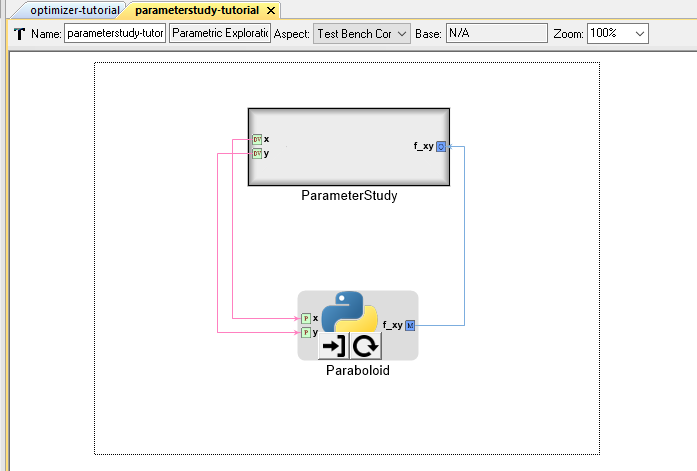
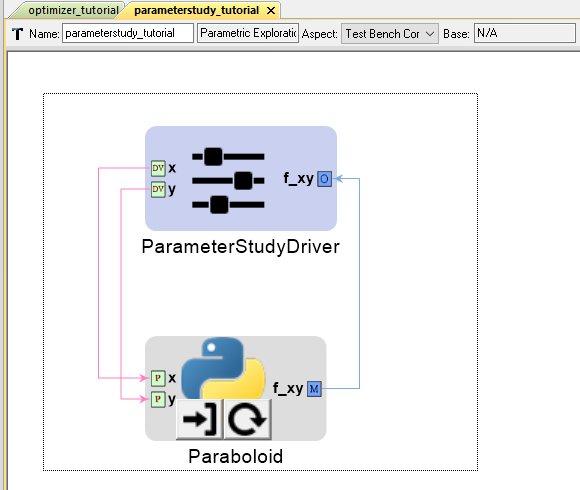
Updated final few PET Tutorial Screenshots and fixed a broken reference in OpenMETA Projects

Changed region(s): [[0.1241, 0.2081, 0.8379, 0.9809], [0.0, 0.0, 1.0, 1.0], [0.1241, 0.1783, 0.1552, 0.2081]]

diff --git a/docs/source/tutorials/pet_tutorial/pet_refining_the_pet.rst b/docs/source/tutorials/pet_tutorial/pet_refining_the_pet.rst
@@ -20,13 +20,24 @@ while decreasing the sampled area.
 .. figure:: images/parameterstudy_tutorial_49.png
    :alt: text
 
+The **Design Configurations** section enables you to manage your configuration
+names. Though our simple design has just one configuration, more complicated
+projects may have hundreds.
+
+2. Click ``Apply`` under the **Refined** heading to set the name of your
+   refined PET.
+
+.. figure:: images/parameterstudy_tutorial_49_a.png
+   :alt: Naming the refined PET
+
+
 The **Numeric Ranges** section enables you to change Design
 Variable ranges.
 
-1. Set **x**'s **New Minimum** and **New Maximum** fields to
+3. Set **x**'s **New Minimum** and **New Maximum** fields to
    **0** and **10** respectively.
 
-2. Set **y**'s **New Minimum** and **New Maximum** fields to
+4. Set **y**'s **New Minimum** and **New Maximum** fields to
    **-10** and **0** respectively.
 
 .. figure:: images/parameterstudy_tutorial_50.png
@@ -35,7 +46,7 @@ Variable ranges.
 .. FIXME: I need to update this image after the PET Refinement tab
 .. fixes so that the file path to the PET is actually correct.
 
-3. Left-click **Execute New PET**
+5. Left-click **Execute New PET**
 
 .. figure:: images/parameterstudy_tutorial_51.png
    :alt: text
@@ -52,13 +63,13 @@ You can see this in the **Results Browser**.
 .. FIXME: I need to update this step after the PET Refinement tab
 .. fixes so that the file path to the PET is actually correct.
 
-4. Select **parameterstudy_tutorial (1)** and left-click **Launch in OpenMETA
-Visualizer**.
-5. Left-click the **Single Plot** tab.
-6. Under the **Variables** section, set **x** as the **X-axis** and **y** as the **Y-axis**.
-7. Left-click the **Overlays** section to expand it.
-8. Set **f_xy** as the **Contour Variable**.
-9. Left-click the **Add Contour Plot** box to check it.
+6. Select **parameterstudy_tutorial (1)** and left-click **Launch in OpenMETA
+   Visualizer**.
+7. Left-click the **Single Plot** tab.
+8. Under the **Variables** section, set **x** as the **X-axis** and **y** as the **Y-axis**.
+9. Left-click the **Overlays** section to expand it.
+10. Set **f_xy** as the **Contour Variable**.
+11. Left-click the **Add Contour Plot** box to check it.
 
 .. figure:: images/parameterstudy_tutorial_53.png
    :alt: text

diff --git a/docs/source/tutorials/pet_tutorial/pet_using_the_optimizer_driver.rst b/docs/source/tutorials/pet_tutorial/pet_using_the_optimizer_driver.rst
@@ -56,8 +56,7 @@ It should appear as a blank canvas.
 
 Instead of redoing work, let's copy our existing work from the Parameter Study tutorial.
 
-7. Inside the **GME Browser** window, double-click on the :menuselection:`
-RootFolder --> Testing --> Parametric Exploration --> parameterstudy_tutorial`
+7. Inside the **GME Browser** window, double-click on the :menuselection:`RootFolder --> Testing --> Parametric Exploration --> parameterstudy_tutorial`
 to open it in a window.
 
 .. image:: images/optimizer_tutorial_3.png

diff --git a/docs/source/reference_modeling/openmeta_projects/openmeta_projects.rst b/docs/source/reference_modeling/openmeta_projects/openmeta_projects.rst
@@ -169,7 +169,7 @@ OpenMETA. This utility makes it possible for two or more users to collaborate on
 an OpenMETA project. Collaborators can work within designated *subtrees*, and
 their edits can be re-incorporated into a master copy of the design model.
 
-In this subsection, we refer to a :ref:`Component Assembly`, and all of the
+In this subsection, we refer to :ref:`component_Assemblies`, and all of the
 objects contained within, as a *subtree*.
 
 Workflow
